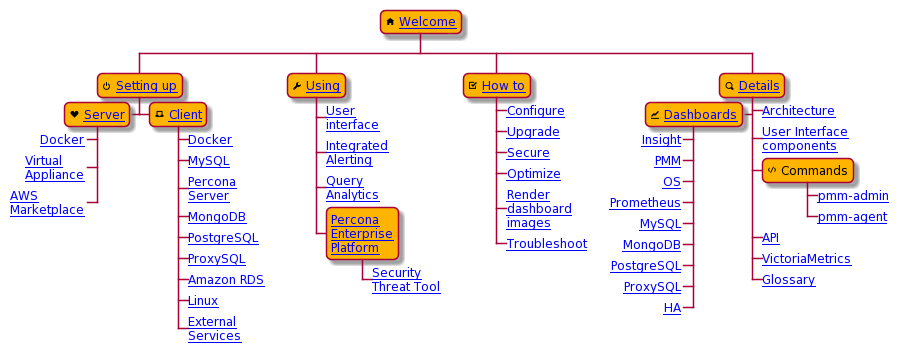
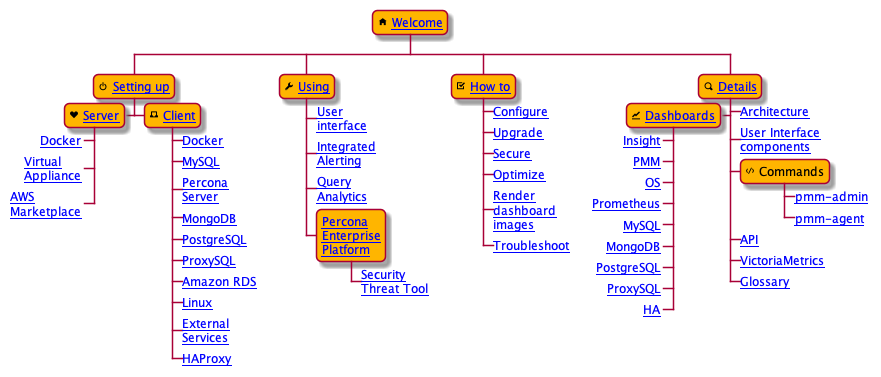
Add HAProxy links to map and index pages

Changed region(s): [[0.0, 0.0, 1.0, 0.9944]]

diff --git a/docs/index.md b/docs/index.md
@@ -60,6 +60,7 @@ To get PMM running, you must:
 		- [ProxySQL](setting-up/client/proxysql.md)
 		- [Linux](setting-up/client/linux.md)
 		- [External services](setting-up/client/external.md)
+		- [HAProxy](setting-up/client/haproxy.md)
 
 	The PMM Client package provides exporters for different database and system types, and administration tools and agents.
 
